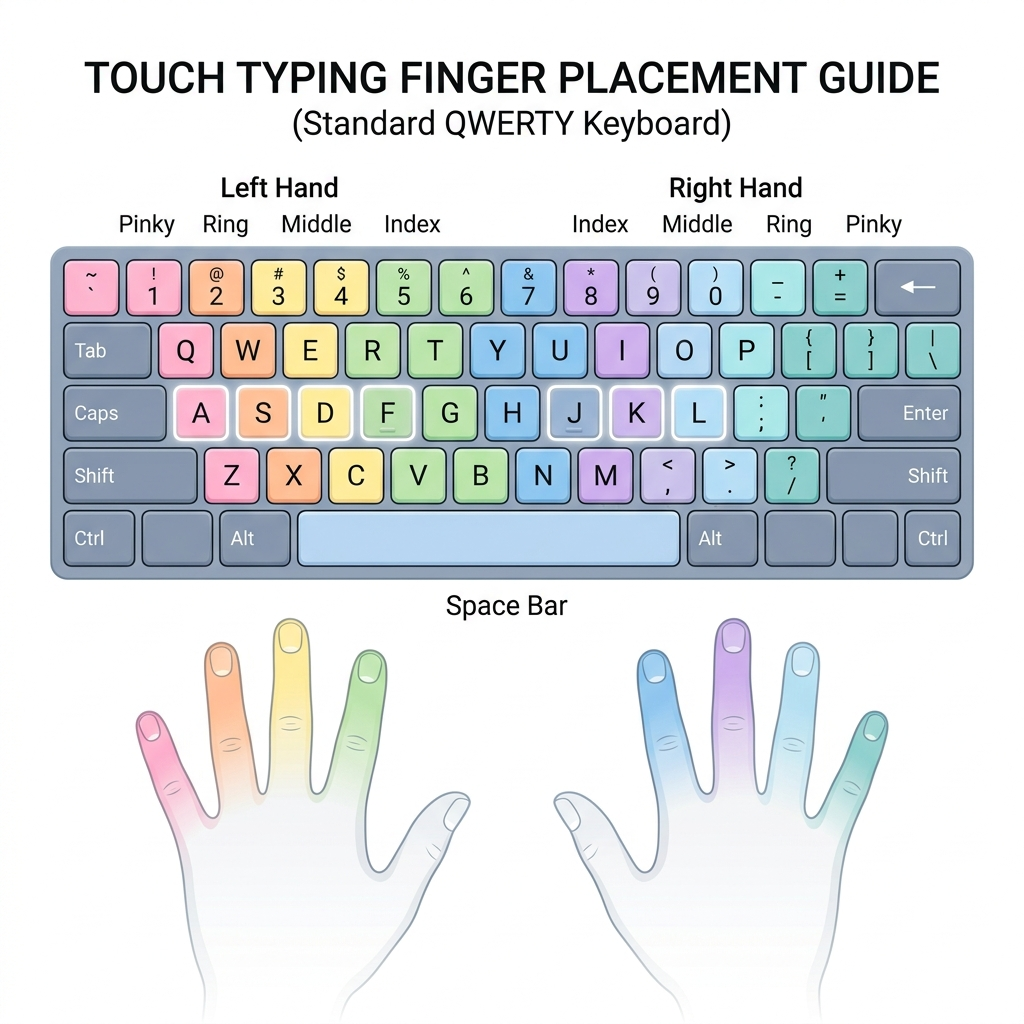
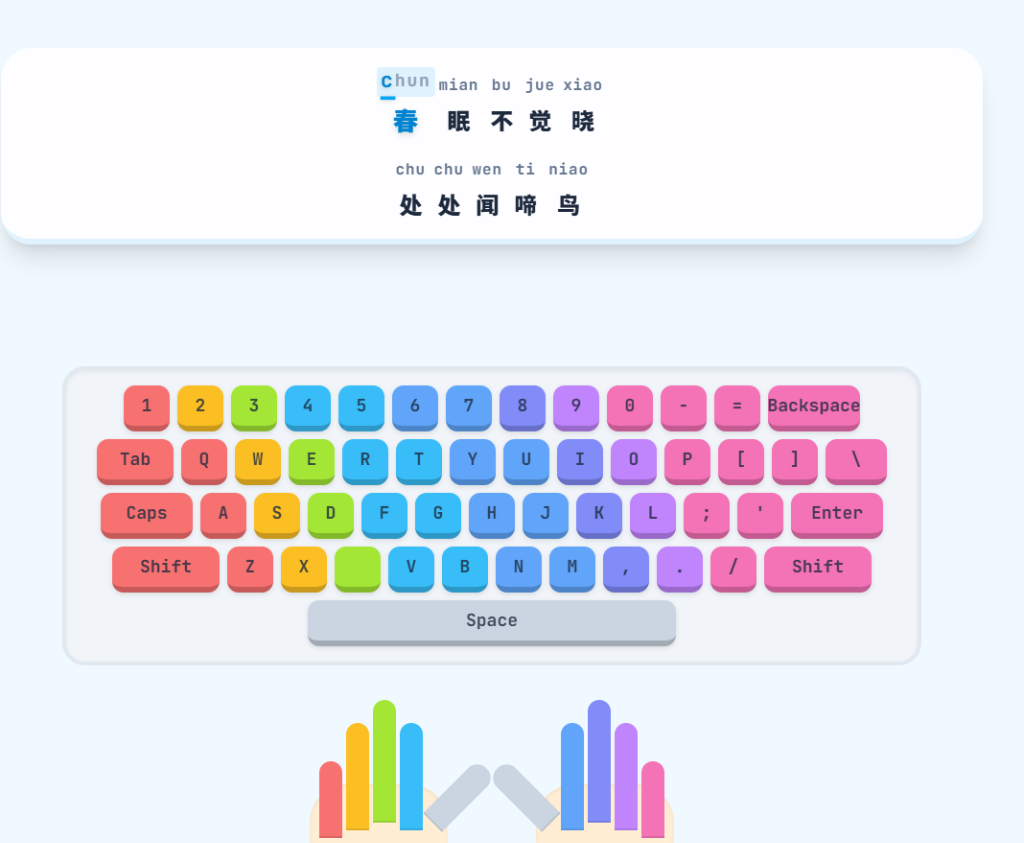
docs: replace placeholder illustrations with actual website screenshots and adjust layout

diff --git a/README.md b/README.md
@@ -20,10 +20,6 @@
 项目内置了 **10 个循序渐进的跟练关卡**。从最基础的基准键（`A S D F` 与 `J K L ;`）开始，逐步扩展到食指/中指、无名指/小指、大写字母与标点符号，最后挑战综合大测试。
 每个关卡通关后，系统会根据您的**错误率**与**正确率**动态结算 **3 星评级**，自动记录您的练习进度！
 
-<div align="center">
-  <img width="80%" alt="Yidazi Stages Map" src="assets/readme/stages.png" />
-</div>
-
 ### 🧠 2. 拼音汉字对照，完美攻克中文打字
 不同于市面上仅支持英文练习的传统打字工具，易打字特别针对中文输入进行了系统化优化。
 - **关卡内拼音提示**：在拼音跟练关卡中，系统会在汉字上方实时标示对应的拼音音节，手把手教您如何用英文键盘拼写出正确汉字。
@@ -34,6 +30,10 @@
 - **内置唐诗宋词**：精选《静夜思》、《春晓》、《登鹳雀楼》等脍炙人口的经典诗词，在练习指法的同时领略国学之美。
 - **一键随机挑选**：随机为你匹配练习文本，保持新鲜感。
 - **自定义文章支持**：完美支持长短文练习，动态生成拼音对照。
+
+<div align="center">
+  <img width="80%" alt="Yidazi Free Practice Mode" src="assets/readme/stages.png" />
+</div>
 
 ### 👐 4. 科学指法与虚拟双手动态引导
 打字时总是忍不住看键盘？易打字拥有强大的**实时视觉指引系统**：
